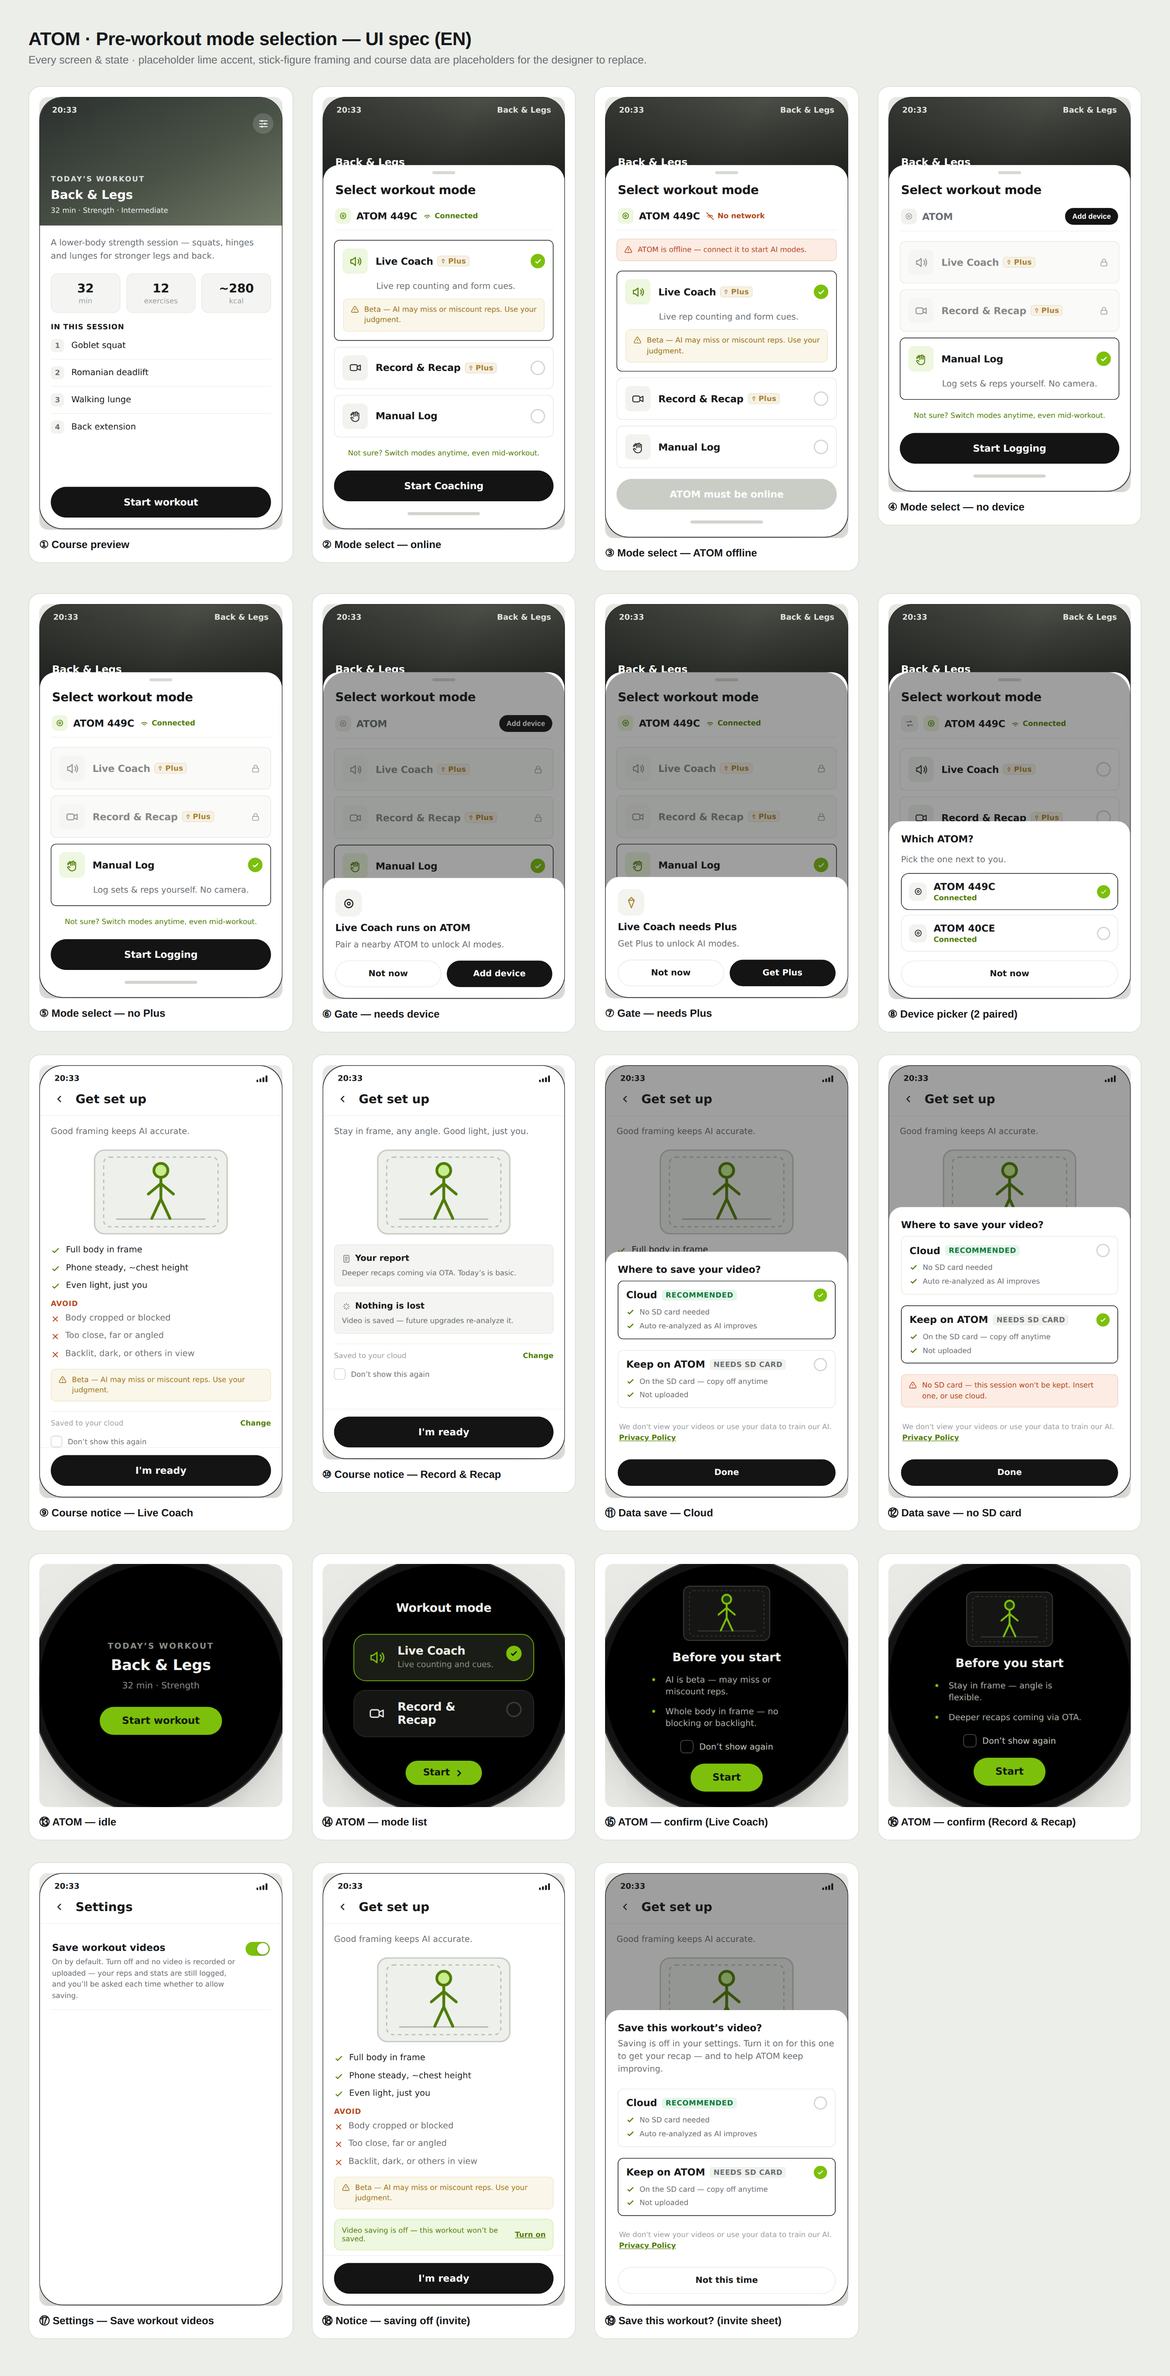
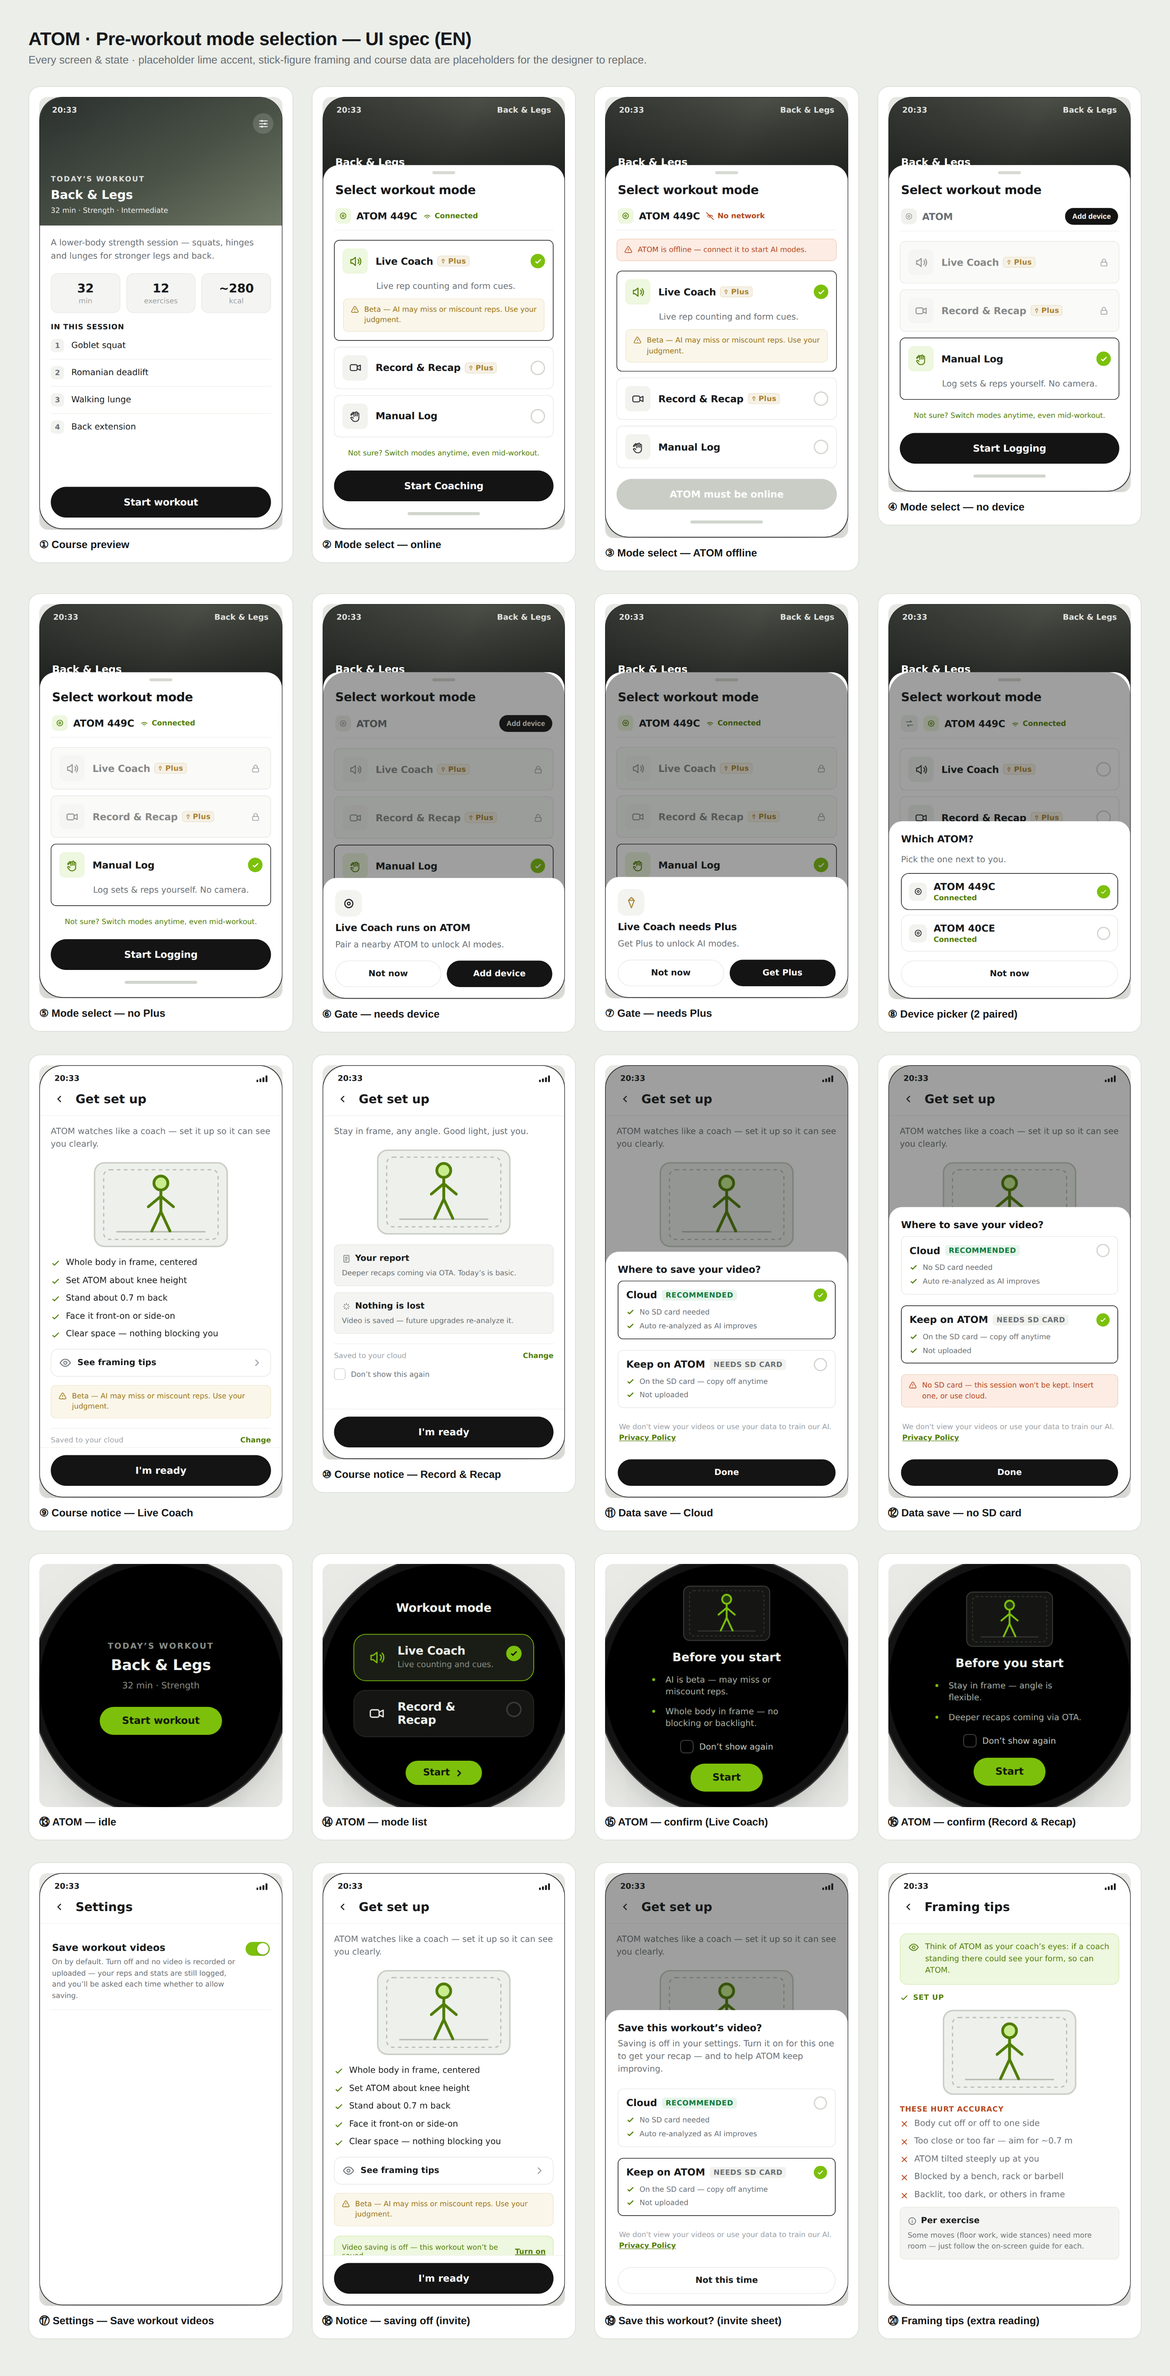
Rework Live Coach framing: correct constraints + coach model + Tips page
- Fix wrong constraint: camera is ATOM (low), so ~knee height, not chest.
- New positive Dos: whole body centered · ATOM ~knee height · stand ~0.7 m
  back · face front-on/side-on · clear space (no equipment blocking).
- Add coach mental model: "ATOM watches like a coach — if a coach could
  see you, so can ATOM."
- Move the "what hurts accuracy" don'ts + per-exercise note off the
  pre-workout page into a separate "Framing tips" page (link on the
  notice). Keeps the pre-class moment positive; wrong examples are
  opt-in reading (one OK image up front, OK-vs-wrong in Tips).
- Update PRD 4.4 + copy table, correct TIPS doc (distance 0.5–1 m,
  knee height, no-equipment-occlusion, coach model). Regenerate UI spec
  (20 screens, incl. Framing tips).

Claude-Session: https://claude.ai/code/session_014PR3u6XwyoxidkFV3YCNB7

diff --git a/workout-mode-selection/prototype-demo.html b/workout-mode-selection/prototype-demo.html
@@ -313,6 +313,16 @@
   .settext{flex:1;min-width:0;}
   .sett{font-size:16px;font-weight:700;color:var(--ink);}
   .setb{font-size:12px;color:var(--ink-2);line-height:1.55;margin-top:5px;}
+  /* framing-tips link on the notice */
+  .tipslink{display:flex;align-items:center;gap:10px;margin-top:14px;padding:12px 13px;border:1px solid var(--line);border-radius:12px;cursor:pointer;background:#fff;}
+  .tipslink .ti,.tipslink .ti svg{width:20px;height:20px;color:var(--ink-2);flex:none;}
+  .tipslink .tt{flex:1;font-size:14px;font-weight:700;color:var(--ink);}
+  .tipslink .tc,.tipslink .tc svg{width:18px;height:18px;color:var(--ink-3);flex:none;}
+  /* tips page */
+  .coachcallout{display:flex;gap:10px;align-items:flex-start;background:var(--brand-tint,#eef7df);border:1px solid #d6ecb3;border-radius:12px;padding:12px 13px;color:var(--brand-ink);font-size:13px;line-height:1.5;margin-bottom:14px;}
+  .coachcallout svg{width:18px;height:18px;flex:none;margin-top:1px;}
+  .okcap{display:flex;align-items:center;gap:7px;font-size:12px;font-weight:800;color:var(--brand-ink);text-transform:uppercase;letter-spacing:.05em;margin:2px 0 8px;}
+  .okcap svg{width:15px;height:15px;}
 </style>
 
 <div class="wrap">
@@ -481,6 +491,16 @@
             </div>
           </div>
         </div>
+
+        <!-- framing tips (extra reading, opened from the notice) -->
+        <div class="page" id="tips">
+          <div class="pagestatus"><span>20:33</span><span class="sigbars"><i></i><i></i><i></i><i></i></span></div>
+          <div class="pagebar">
+            <div class="back" id="tips-back"><svg viewBox="0 0 24 24" fill="none" stroke="currentColor" stroke-width="2.2" stroke-linecap="round" stroke-linejoin="round"><path d="M15 6l-6 6 6 6"/></svg></div>
+            <div class="ptitle" id="tips-t"></div>
+          </div>
+          <div class="pagebody" id="tips-body"></div>
+        </div>
       </div>
     </div>
 
@@ -585,11 +605,14 @@
       dataNoSdWarn:"No SD card — this session won't be kept. Insert one, or use cloud.",
       pageTitle:'Get set up', psOk:"I'm ready", reach:'Keep your ATOM within reach.',
       pickT:'Which ATOM?', pickHint:'Pick the one next to you.',
-      coachSub:'Good framing keeps AI accurate.',
+      coachSub:'ATOM watches like a coach — set it up so it can see you clearly.',
       coachDoH:'Set up',
-      coachDo:['Full body in frame','Phone steady, ~chest height','Even light, just you'],
-      coachAvoidH:'Avoid',
-      coachAvoid:['Body cropped or blocked','Too close, far or angled','Backlit, dark, or others in view'],
+      coachDo:['Whole body in frame, centered','Set ATOM about knee height','Stand about 0.7 m back','Face it front-on or side-on','Clear space — nothing blocking you'],
+      coachAvoidH:'These hurt accuracy',
+      coachAvoid:['Body cut off or off to one side','Too close or too far — aim for ~0.7 m','ATOM tilted steeply up at you','Blocked by a bench, rack or barbell','Backlit, too dark, or others in frame'],
+      coachLine:'Think of ATOM as your coach’s eyes: if a coach standing there could see your form, so can ATOM.',
+      tipsLink:'See framing tips', tipsTitle:'Framing tips',
+      perExH:'Per exercise', perEx:'Some moves (floor work, wide stances) need more room — just follow the on-screen guide for each.',
       recapSub:'Stay in frame, any angle. Good light, just you.',
       recapDoH:'Keep in mind',
       recapDo:['Stay fully in frame the whole workout','Angle is flexible — front or side is fine','Enough light; just you in frame'],
@@ -634,11 +657,14 @@
       dataNoSdWarn:'未检测到 SD 卡，本次不会保留。请插卡或改用云端。',
       pageTitle:'课前须知', psOk:'准备好了', reach:'让 ATOM 就在你的手边。',
       pickT:'使用哪一台 ATOM？', pickHint:'选择你身边的那台。',
-      coachSub:'画面摆好，识别才准。',
+      coachSub:'ATOM 就像教练的眼睛——摆好位置，让它看清你。',
       coachDoH:'这样摆',
-      coachDo:['全身完整入框','手机放稳，约胸口高','光线均匀，只有你'],
-      coachAvoidH:'避免',
-      coachAvoid:['肢体被裁切、遮挡','太近、太远或角度歪','逆光、过暗或他人入镜'],
+      coachDo:['全身入框，站在画面中央','ATOM 放到约膝盖高度','离 ATOM 约 0.7 米','正对或侧对镜头','周围留空，别被器械挡住'],
+      coachAvoidH:'这些会影响识别',
+      coachAvoid:['身体被裁切或偏到一边','太近或太远——约 0.7 米最好','ATOM 过度仰角对着你','被卧推凳、深蹲架或杠铃挡住','逆光、过暗，或有他人入镜'],
+      coachLine:'把 ATOM 想成教练的眼睛：教练站那儿能看清你的动作，ATOM 就能看清。',
+      tipsLink:'查看拍摄技巧', tipsTitle:'拍摄技巧',
+      perExH:'不同动作', perEx:'部分动作（地面动作、大跨步）需要更大画面，按每个动作的屏幕提示调整即可。',
       recapSub:'全程在画面里，角度随意。光线充足、只有你。',
       recapDoH:'记住这几点',
       recapDo:['运动全程待在画面里','角度不苛刻，正面或侧面都行','光线别太暗，画面里只有你'],
@@ -737,6 +763,9 @@
     return '<div class="dataline'+(warn?' warn':'')+'" id="ps-datarow"><span>'+txt+'</span><span class="drchange">'+t.drChange+'</span></div>';
   }
   function _dontrow(t){ return '<div class="dontrow'+(psSkip?' on':'')+'" id="ps-dont"><span class="box">'+CHKM+'</span><span>'+t.dontShow+'</span></div>'; }
+  var EYEI='<svg viewBox="0 0 24 24" fill="none" stroke="currentColor" stroke-width="1.8" stroke-linecap="round" stroke-linejoin="round"><path d="M2 12s3.5-7 10-7 10 7 10 7-3.5 7-10 7-10-7-10-7Z"/><circle cx="12" cy="12" r="3"/></svg>';
+  var CHEVI='<svg viewBox="0 0 24 24" fill="none" stroke="currentColor" stroke-width="2.2" stroke-linecap="round" stroke-linejoin="round"><path d="M9 6l6 6-6 6"/></svg>';
+  function _tipslink(t){ return '<div class="tipslink" id="ps-tips"><span class="ti">'+EYEI+'</span><span class="tt">'+t.tipsLink+'</span><span class="tc">'+CHEVI+'</span></div>'; }
   function openPrestart(keep){
     var t=T[LANG];
     var selEl=sheet.querySelector('.mode.sel'); if(!selEl)return;
@@ -746,7 +775,7 @@
     if(mode==='coach'){
       h+='<div class="pagesub">'+t.coachSub+'</div>'+FRAME_LIGHT
         +_do(t.coachDo)
-        +_sec(t.coachAvoidH,true)+_avoid(t.coachAvoid)
+        +_tipslink(t)
         +'<div class="caution" style="margin-top:14px">'+WARNI+'<span>'+t.beta+'</span></div>';
     } else {
       h+='<div class="pagesub">'+t.recapSub+'</div>'+FRAME_LIGHT;
@@ -757,7 +786,20 @@
     psBody.innerHTML=h; prestart.classList.add('show'); if(!keep) psBody.scrollTop=0;
     document.getElementById('ps-datarow').onclick=openDataSheet;
     document.getElementById('ps-dont').onclick=function(){ psSkip=!psSkip; var st=psBody.scrollTop; openPrestart(true); psBody.scrollTop=st; };
+    var tl=document.getElementById('ps-tips'); if(tl) tl.onclick=showTips;
   }
+  /* framing tips (extra reading — OK image + what hurts accuracy + per-exercise) */
+  var tips=document.getElementById('tips'), tipsT=document.getElementById('tips-t'), tipsBody=document.getElementById('tips-body');
+  function showTips(){
+    var t=T[LANG];
+    tipsT.textContent=t.tipsTitle;
+    tipsBody.innerHTML='<div class="coachcallout">'+EYEI+'<span>'+t.coachLine+'</span></div>'
+      +'<div class="okcap">'+CHK+'<span>'+t.coachDoH+'</span></div>'+FRAME_LIGHT
+      +_sec(t.coachAvoidH,true)+_avoid(t.coachAvoid)
+      +_info(INFOI,t.perExH,t.perEx);
+    tips.classList.add('show'); tipsBody.scrollTop=0;
+  }
+  document.getElementById('tips-back').onclick=function(){ tips.classList.remove('show'); };
   psBack.onclick=function(){ prestart.classList.remove('show'); };
   psOk.onclick=function(){ prestart.classList.remove('show'); };   // proceed (would start workout)
 
@@ -921,7 +963,7 @@
   /* reset the whole demo back to the preview screens */
   document.getElementById('reset').addEventListener('click',function(){
     closePop(); dpick.classList.remove('show'); roverlay.classList.remove('show');
-    prestart.classList.remove('show'); datasheet.classList.remove('show'); settings.classList.remove('show');
+    prestart.classList.remove('show'); datasheet.classList.remove('show'); settings.classList.remove('show'); tips.classList.remove('show');
     sessionSave=false;
     preview.classList.remove('hiding'); preview.classList.add('show');
     atomidle.classList.remove('hiding'); atomidle.classList.add('show');

diff --git a/workout-mode-selection/TIPS-识别准确度指南.md b/workout-mode-selection/TIPS-识别准确度指南.md
@@ -4,24 +4,28 @@
 
 How to place and set up so ATOM's AI counting & tracking is **as accurate as possible**. This is the long-form version of the pre-workout "Set up before you start" screen — use it in the help center / first-run onboarding / a "View full tips" link.
 
-> 相关：`PRD-课前模式选择.md`（第 4.4 节 开始前确认）· `prototype-课前模式选择.html`
+> 相关：`PRD-课前模式选择.md`（第 4.4 节 开始前确认）· `prototype-demo.html`
+
+> **一句话心智**：把 ATOM 想成**教练的眼睛**——教练站在那儿能看清你的动作，ATOM 就能看清。按「你会怎么站到教练面前」来摆。
+> Think of ATOM as your coach's eyes: if a coach standing there could see your form, so can ATOM.
 
 ---
 
 ## 30 秒速览 · TL;DR
 
 **✅ 这样摆**
-- 全身完整入框，四周留出余量
-- 手机稳定平放，约与胸口同高、镜头水平
-- 光线充足均匀，避免逆光
-- 画面里只有你，背景干净
+- 全身入框、**站在画面中央**，四周留余量
+- **ATOM 放到约膝盖高度**（贴地设备），别过度仰角
+- 离 ATOM **约 0.7 米**（0.5–1 m）
+- **正对或侧对**镜头
+- 光线充足均匀、避免逆光；画面里只有你，**别被器械挡住**
 
 **❌ 这些会让识别变不准**
-- 肢体被裁切，或被器械 / 宽松衣物遮挡
-- 距离太近或太远
-- 镜头倾斜、过高或过低
-- 强逆光、反光或过暗
-- 画面里有其他人或杂物
+- 身体被裁切，或偏到一边
+- 太近或太远（约 0.7 米最好）
+- **ATOM 过度仰角**对着你
+- 被**卧推凳 / 深蹲架 / 杠铃**、宽松衣物遮挡
+- 强逆光 / 反光 / 过暗，或画面里有其他人
 
 ---
 
@@ -30,7 +34,7 @@ How to place and set up so ATOM's AI counting & tracking is **as accurate as pos
 - **全身入框**：头顶到脚踝都要在画面内，动作最大幅度时（如深蹲、弓步、举臂）也不能出框。
 - **留余量**：人物四周留约一个身位的余量，别贴边。
 - **居中**：站在画面中间，不要偏到一侧。
-- **距离**：一般 **2–3 米**，以「全身刚好舒适入框、还留有余量」为准；太近会裁切、太远会让关节点变小、识别变糊。
+- **距离**：约 **0.7 米**（0.5–1 m）。ATOM 是贴地广角设备，靠得较近也能收全身；太近会裁切、太远会让关节点变小、识别变糊。
 
 > 自查：站到位后，抬手过头 + 下蹲，看四肢是否始终在框内。
 
@@ -38,17 +42,17 @@ How to place and set up so ATOM's AI counting & tracking is **as accurate as pos
 
 ## 2. 设备高度与角度 · Height & angle
 
-- **高度**：镜头约在 **腰到胸口之间**（≈ 0.8–1.1 米），能平视全身最稳。
-- **水平**：镜头尽量**水平正对**你，不要仰拍或俯拍。
-- **别倾斜**：手机不要歪斜，画面地平线要正。
-- **正面或稍侧**：正面最通用；如动作需要侧面（如硬拉观察背角），按课程提示摆放，但避免极端斜角。
+- **高度**：ATOM 贴地摆放，镜头约在 **膝盖高度**（不是胸高——它本就是放在地面/低处的设备）。
+- **别过度仰角**：设备低、离得近会形成较大仰角；站够 ~0.7 米、让全身完整入框，避免极端仰拍把身体拉变形。
+- **别倾斜**：设备放平，画面地平线要正。
+- **正面或侧面**：正面最通用；部分动作需要侧面（如硬拉看背角），按课程提示摆放，但避免极端斜角。
 
 ---
 
 ## 3. 稳定摆放 · Stability
 
-- 放在**稳固平面**（凳子、箱子、置物架），或用**手机支架 / 三脚架**。
-- 别靠在会滑动或晃动的东西上；训练时地面震动可能让手机移位。
+- 放在**稳固的地面/低处平台**，膝盖高度左右，别放在会滑动或晃动的东西上。
+- 训练时地面震动可能让设备移位；确保它稳固、不被踢到。
 - 一旦摆好，**开练后不要再移动**设备。
 
 ---

diff --git a/workout-mode-selection/PRD-课前模式选择.md b/workout-mode-selection/PRD-课前模式选择.md
@@ -129,9 +129,15 @@
 > 精简原则：去掉与页面标题重复的小标题；bullet 尽量不折行；只在必要时呈现信息。
 
 **Live Coach（对角度较敏感）**
-- 副标题：**画面摆好，识别才准。**
-- 取景图 + **√ 做到**（3 条极简）：全身完整入框 / 手机放稳，约胸口高 / 光线均匀，只有你。
-- **✗ 避免**（3 条）：肢体被裁切、遮挡 / 太近、太远或角度歪 / 逆光、过暗或他人入镜。
+- **心智**：把 ATOM 说成**教练的眼睛**——「教练站那儿能看清你的动作，ATOM 就能看清」。副标题用短版「ATOM 就像教练的眼睛，摆好位置让它看清你」。
+- 课前须知只放**正向**：一张「✓ 正确」取景图 + **做到清单**（约 5 条）：
+  - 全身入框、**居中**；
+  - **ATOM 放到约膝盖高度**（贴地设备，不可能到胸高——原「chest height」为错误，已改）；
+  - 离约 **0.7 米**（0.5–1 m）；
+  - 正对或侧对，**别过度仰角**；
+  - 周围留空，**别被器械（卧推凳 / 深蹲架 / 杠铃）挡住**。
+- **反例（✗ 会影响识别）+ 每个动作差异**放到单独的**「拍摄技巧」二级页**（须知上有「查看拍摄技巧」入口），避免课前堆负面信息。**图片策略**：须知放 1 张 OK；Tips 页放 OK vs 若干 Not-OK 对照 + 说明。
+- 课前要求可**按动作模板化**（地面动作 / 大跨步需要更大画面）。
 - **Beta 提示**：可能漏/误计，请自行判断。
 
 **Record & Recap（对角度较宽松）**
@@ -166,7 +172,10 @@
 | 门槛·缺设备 | Live Coach runs on ATOM · Pair a nearby ATOM to unlock AI modes. | Live Coach 需要 ATOM · 连接身边的 ATOM，解锁 AI 模式。 |
 | 门槛·缺会员 | Live Coach needs Plus · Get Plus to unlock AI modes. | Live Coach 需要 Plus · 开通 Plus，解锁 AI 模式。 |
 | 课前须知·标题 | Get set up | 课前须知 |
-| Coach 副标 | Good framing keeps AI accurate. | 画面摆好，识别才准。 |
+| Coach 副标 | ATOM watches like a coach — set it up so it can see you clearly. | ATOM 就像教练的眼睛——摆好位置，让它看清你。 |
+| Coach 做到（5） | Whole body in frame, centered · Set ATOM about knee height · Stand about 0.7 m back · Face it front-on or side-on · Clear space — nothing blocking you | 全身入框，站在画面中央 · ATOM 放到约膝盖高度 · 离 ATOM 约 0.7 米 · 正对或侧对镜头 · 周围留空，别被器械挡住 |
+| Coach 反例（Tips 页） | Body cut off or off to one side · Too close or too far (~0.7 m) · ATOM tilted steeply up · Blocked by a bench, rack or barbell · Backlit, dark, or others in frame | 身体被裁切或偏到一边 · 太近或太远（约 0.7 米） · ATOM 过度仰角 · 被卧推凳/深蹲架/杠铃挡住 · 逆光、过暗或他人入镜 |
+| 教练心智 | Think of ATOM as your coach's eyes: if a coach standing there could see your form, so can ATOM. | 把 ATOM 想成教练的眼睛：教练站那儿能看清你，ATOM 就能看清。 |
 | Recap 副标 | Stay in frame, any angle. Good light, just you. | 全程在画面里，角度随意。光线充足、只有你。 |
 | 报告预期 | Deeper recaps coming via OTA. Today's is basic. | 更深复盘将随 OTA 上线，当前报告较简单。 |
 | 算法留存 | Video is saved — future upgrades re-analyze it. | 视频留存，日后升级可重新分析。 |
